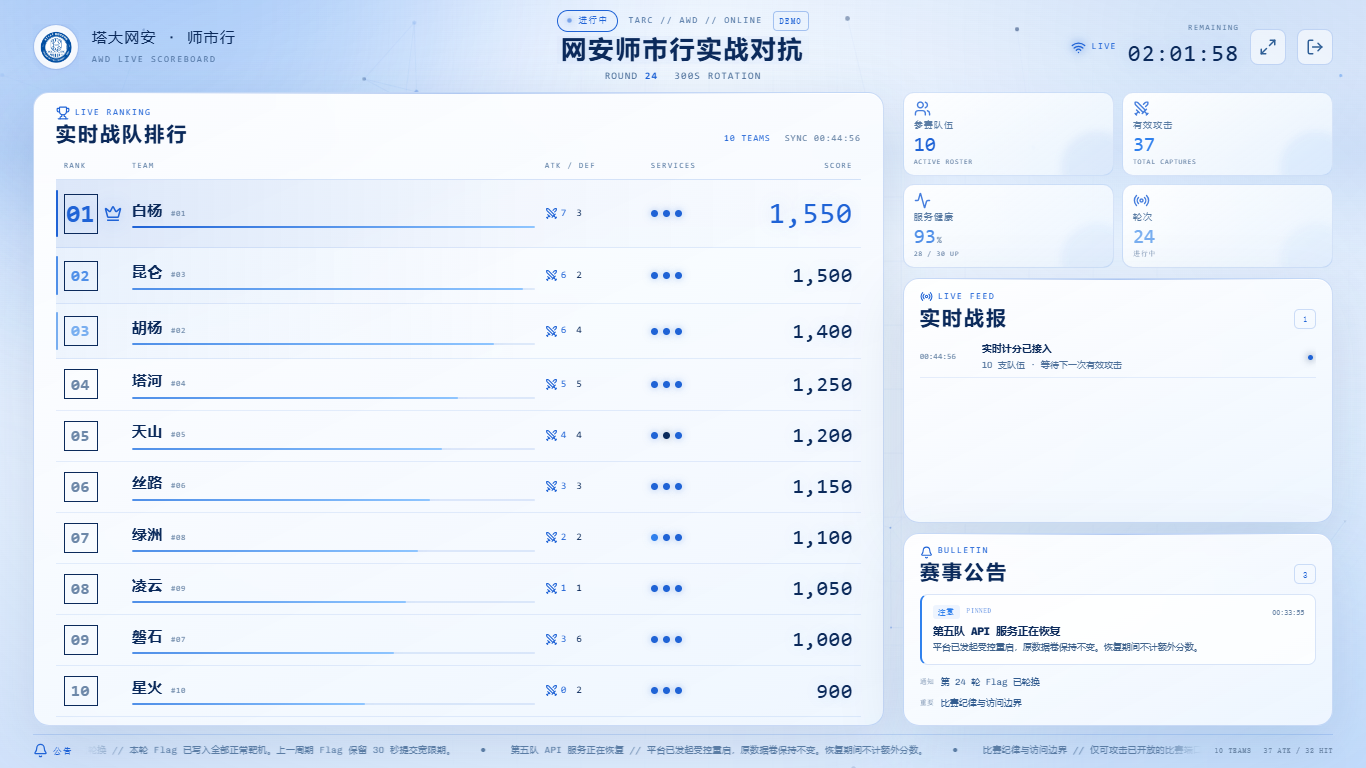
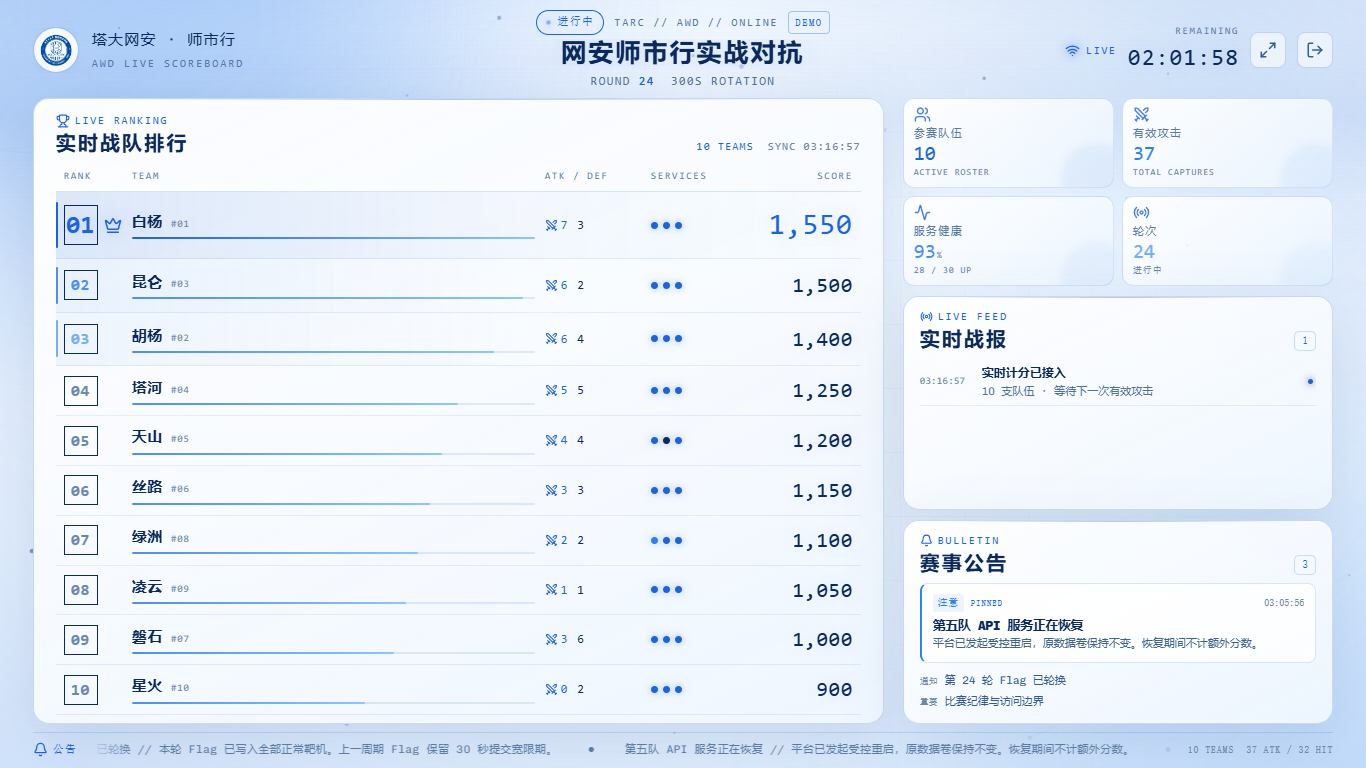
style: 放大计分大屏模块小字
- 模块辅助文字统一放大 2px：品牌副标题、状态、面板标签、排名表头、队伍副信息、统计卡标签、雷达图例、战报、公告和底部信息\n- 雷达节点标签从 8px 调整到 10px\n- 保持模块标题和分数数字不变，并更新 1920/1366 预览图

diff --git a/frontend/src/views/BigScreenView.vue b/frontend/src/views/BigScreenView.vue
@@ -1089,4 +1089,46 @@ onBeforeUnmount(() => {
 .boot-overlay--error { color: #0b2a5b; }
 .boot-retry { border-color: rgba(31, 99, 214, 0.32); color: #1f63d6; background: rgba(255, 255, 255, 0.8); }
 .boot-retry:hover { border-color: #1f63d6; }
+
+/* Small module labels: +2px for projection readability */
+.brand-copy span,
+.match-code,
+.demo-chip,
+.status-pill,
+.live-chip,
+.eyebrow,
+.panel-side,
+.rank-arrow,
+.score-delta,
+.stat-card span,
+.radar-legend strong,
+.radar-legend em,
+.feed-count,
+.notice-count,
+.feed-copy small,
+.notice-feature p,
+.notice-list strong,
+.ticker-label,
+.ticker-track { font-size: 11px; }
+.clock-block span,
+.ranking-head,
+.team-name span,
+.team-sub,
+.radar-legend span,
+.feed-time,
+.notice-level,
+.notice-top time,
+.footer-sync { font-size: 10px; }
+.pin-mark,
+.stat-card small,
+.notice-list span { font-size: 9px; }
+.match-meta,
+.combat-cell,
+.feed-copy strong,
+.notice-empty,
+.error-strip,
+.boot-overlay p,
+.boot-retry { font-size: 12px; }
+.ranking-empty,
+.notice-feature h3 { font-size: 13px; }
 </style>

diff --git a/frontend/src/components/ScreenRadar.vue b/frontend/src/components/ScreenRadar.vue
@@ -83,7 +83,7 @@ const nodes = computed(() => {
 .radar-node-dot { fill: #1f63d6; filter: drop-shadow(0 0 5px rgba(31, 99, 214, 0.5)); }
 .radar-node--top .radar-node-dot { fill: #0b2a5b; filter: drop-shadow(0 0 7px rgba(11, 42, 91, 0.55)); }
 .radar-node--top .radar-node-halo { fill: rgba(11, 42, 91, 0.08); stroke: rgba(11, 42, 91, 0.35); }
-.radar-label { fill: #315b8f; font-family: ui-monospace, SFMono-Regular, Menlo, Consolas, monospace; font-size: 8px; letter-spacing: 0.06em; }
+.radar-label { fill: #315b8f; font-family: ui-monospace, SFMono-Regular, Menlo, Consolas, monospace; font-size: 10px; letter-spacing: 0.06em; }
 .radar-node--top .radar-label { fill: #0b2a5b; }
 .radar-core-dot { fill: #1f63d6; filter: drop-shadow(0 0 7px rgba(31, 99, 214, 0.5)); }
 @keyframes radar-sweep { to { transform: rotate(360deg); } }
